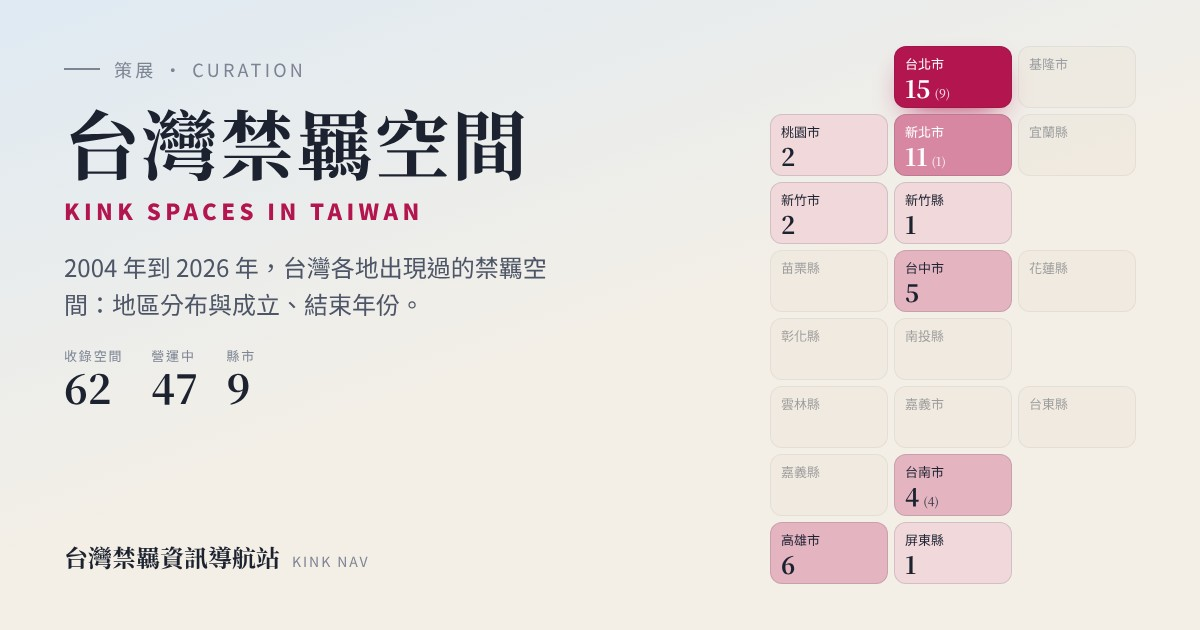
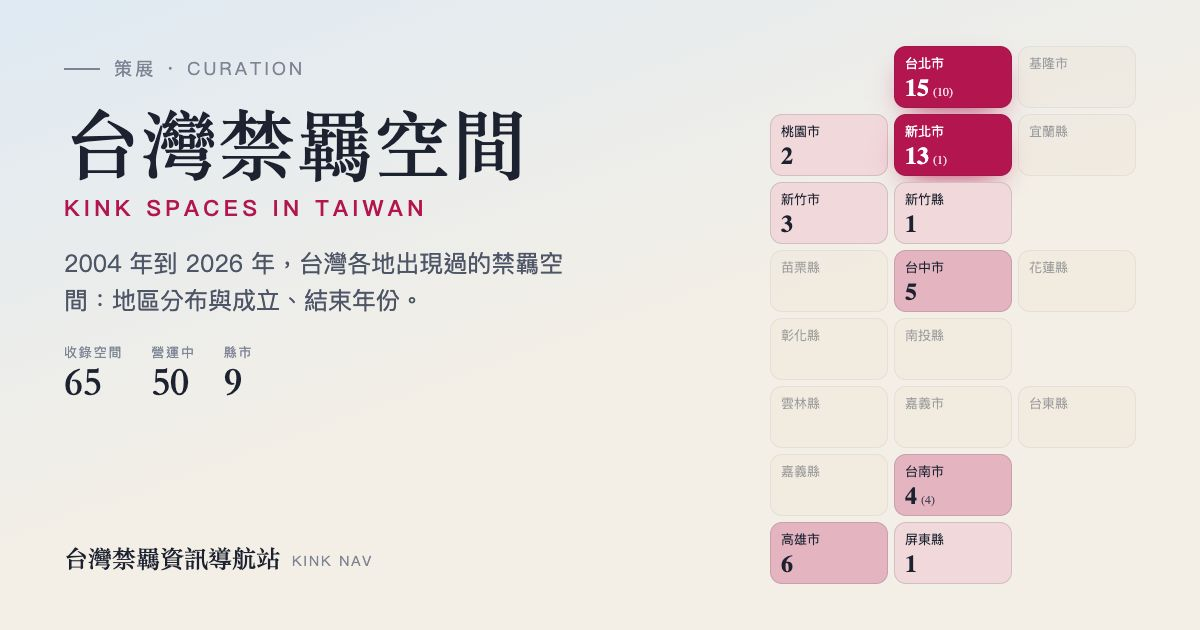
Kink space: sync with the sheet, 65 spaces
Three new 2026 spaces (禁忌糖果屋, 祕密羈地, 繩獸閣), names follow the
sheet, Commander 41 gets its city, 成大禁羈社 starts in 2019, seven
reference links added and the broken one on 台大BDSM社 fixed. Home card
count and the pinned test go to 65; social image regenerated.

diff --git a/app/data/spaces.ts b/app/data/spaces.ts
@@ -37,35 +37,35 @@ export const kindNames: Record<SpaceKind, Localized> = {
 
 // Source: 台灣禁羈空間列表＆時間軸 by 虎斑 (Google Sheet, 禁羈空間列表及起始結束時間). Order follows the sheet.
 export const spaces: readonly KinkSpace[] = [
-  { name: '皮繩脫殼日', kind: 'munch', start: 2004, end: 2011, host: '皮繩愉虐邦', venue: '不固定', city: '台北市', district: '大安區' },
-  { name: '皮繩脫殼日', kind: 'munch', start: 2011, end: 2012, host: '皮繩愉虐邦', venue: '直走咖啡', city: '台北市', district: '中正區' },
+  { name: '皮繩愉虐邦Munch', kind: 'munch', start: 2004, end: 2011, host: '皮繩愉虐邦', venue: '不固定', city: '台北市', district: '大安區', url: 'https://www.bdsmtw.com/2004/06/munch-0406-ning/' },
+  { name: '脫殼日', kind: 'munch', start: 2011, end: 2012, host: '皮繩愉虐邦', venue: '直走咖啡', city: '台北市', district: '中正區' },
   { name: '皮繩脫殼日', kind: 'munch', start: 2012, end: 2015, host: '皮繩愉虐邦', venue: 'Commander D', city: '台北市', district: '萬華區' },
   { name: '香草脫殼日', kind: 'munch', start: 2016, end: 2021, host: '皮繩愉虐邦', venue: '半路咖啡', city: '台北市', district: '大安區' },
-  { name: 'Commander 41', kind: 'space', start: 2011, end: 2025, venue: 'Commander 41' },
+  { name: 'Commander 41', kind: 'space', start: 2011, end: 2025, venue: 'Commander 41', city: '台北市', district: '萬華區' },
   { name: 'Commander D', kind: 'party', start: 2012, end: 2026, host: 'Commander D', venue: 'Commander D', city: '台北市', district: '萬華區' },
   { name: '真繩會', kind: 'rope', start: 2013, end: 2020, host: 'Maya Mai', venue: '民權西路站附近', city: '台北市', district: '中山區' },
   { name: 'MySpace', kind: 'rope', start: 2017, end: 2023, host: 'Maya Mai', venue: 'MySpace', city: '台北市', district: '中山區', url: 'https://www.facebook.com/photo/?fbid=1693201827647798&set=a.474026168092840' },
   { name: 'BDSM同樂會', kind: 'space', start: 2017, end: 2026, venue: '南京復興站附近', city: '台北市', district: '中山區' },
   { name: '虐狐', kind: 'munch', start: 2013, end: 2026, venue: '雜貓窩', city: '台中市', district: '北區' },
-  { name: '縛宵', kind: 'party', start: 2017, end: 2026, host: '縛生', venue: 'ChoraStudio', city: '台北市', district: '松山區' },
-  { name: '中和未命名', kind: 'party', start: 2017, end: 2026, venue: '未命名.bnb', city: '新北市', district: '中和區' },
-  { name: '景美未命名', kind: 'space', start: 2018, end: 2026, venue: '未命名(2).dio', city: '台北市', district: '文山區', url: 'https://www.facebook.com/unnamed1.dio/posts/pfbid08LWPNEHfNMByf3CDcQVYTAUj4uhQnUtog5pt3VxQycg4TLms1gsX1p9rCrQVPby6l' },
-  { name: '府中未命名', kind: 'space', start: 2022, end: 2026, venue: '未命名（3）.oh', city: '新北市', district: '板橋區' },
+  { name: '縛宵 ShibariVespers', kind: 'party', start: 2017, end: 2026, host: '縛.生', venue: 'ChoraStudio', city: '台北市', district: '松山區' },
+  { name: '未命名.bnb', kind: 'party', start: 2017, end: 2026, venue: '未命名.bnb', city: '新北市', district: '中和區' },
+  { name: '未命名(2).dio', kind: 'space', start: 2018, end: 2026, venue: '未命名(2).dio', city: '台北市', district: '文山區', url: 'https://www.facebook.com/unnamed1.dio/posts/pfbid08LWPNEHfNMByf3CDcQVYTAUj4uhQnUtog5pt3VxQycg4TLms1gsX1p9rCrQVPby6l' },
+  { name: '未命名（3）.oh', kind: 'space', start: 2022, end: 2026, venue: '未命名（3）.oh', city: '新北市', district: '板橋區' },
   { name: '大立未命名', kind: 'space', start: 2021, end: 2026, city: '高雄市', district: '前金區' },
   { name: 'Tribo安全屋', kind: 'space', start: 2024, end: 2025, city: '台南市', district: '北區' },
   { name: '府城未命名', kind: 'space', start: 2025, end: 2026, city: '台南市', district: '北區' },
   { name: '沿山未命名', kind: 'space', start: 2024, end: 2026, city: '屏東縣', district: '新埤鄉' },
-  { name: '台大BDSM社', kind: 'club', start: 2014, end: 2026, host: '台大BDSM社', city: '台北市', district: '大安區', url: 'V' },
-  { name: '師大性善社', kind: 'club', start: 2017, end: 2026, host: '師大性善社', city: '台北市', district: '大安區', url: 'https://www.facebook.com/photo?fbid=652636338256893&set=a.459029776238722' },
-  { name: '成大禁羈社', kind: 'club', start: 2018, end: 2026, host: '成大禁羈社', city: '台南市', district: '東區' },
+  { name: '台大BDSM社', kind: 'club', start: 2014, end: 2026, host: '台大BDSM社', city: '台北市', district: '大安區', url: 'https://www.ptt.cc/bbs/NTU/M.1410779495.A.329.html' },
+  { name: '台師大多元性慾友善社', kind: 'club', start: 2017, end: 2026, host: '師大性善社', city: '台北市', district: '大安區', url: 'https://www.facebook.com/photo?fbid=652636338256893&set=a.459029776238722' },
+  { name: '成大禁羈社', kind: 'club', start: 2019, end: 2026, host: '成大禁羈社', city: '台南市', district: '東區', url: 'https://x.com/nckukink/status/1186562774517735424' },
   { name: '清大愛慾實務社', kind: 'club', start: 2020, end: 2026, host: '清大愛慾實務社', city: '新竹市', district: '東區', url: 'https://nthuaiyu.medium.com/1091-%E5%AD%B8%E6%9C%9F%E5%9B%9E%E9%A1%A7-%E6%96%B0%E7%AB%B9%E5%94%AF%E4%B8%80%E4%B8%BB%E6%89%93%E6%83%85%E6%85%BE%E8%88%87%E6%80%A7%E7%9A%84%E7%A4%BE%E5%9C%98-%E5%9C%A8%E9%80%99%E5%80%8B%E5%AD%B8%E6%9C%9F%E5%81%9A%E4%BA%86%E4%BB%80%E9%BA%BC-2ae44ee0f4c' },
-  { name: '東吳大學性愉悅研究社', kind: 'space', start: 2025, end: 2026, city: '台北市', district: '中正區' },
+  { name: '東吳大學多元性愉悅研究社', kind: 'space', start: 2025, end: 2026, city: '台北市', district: '中正區', url: 'https://x.com/scubdsmclub/status/1904717761324204209' },
   { name: '貓樓上繩語沙龍', kind: 'space', start: 2018, end: 2026, city: '台北市', district: '大同區', url: 'https://www.catsdownstairs.com/about' },
-  { name: '康樂玩', kind: 'space', start: 2019, end: 2026, city: '新北市', district: '板橋區' },
+  { name: 'BDSM康樂玩', kind: 'space', start: 2019, end: 2026, city: '新北市', district: '板橋區' },
   { name: '束室', kind: 'space', start: 2018, end: 2026, city: '新北市', district: '板橋區' },
   { name: '參拾捌號', kind: 'space', start: 2018, end: 2021, city: '新北市', district: '淡水區', url: 'https://www.facebook.com/permalink.php?story_fbid=pfbid02P8F2Sm5RMREtgnNfLDG7eJg5dhc5nmnRhmsNdfLLE8jQ994H8bEmDyi4ReQf4Fyvl&id=100064907551471' },
   { name: '沐慾', kind: 'space', start: 2024, end: 2025, city: '台北市', district: '中山區' },
-  { name: '光角', kind: 'space', start: 2022, end: 2026, city: '台北市', district: '中山區' },
+  { name: '光角LIMER', kind: 'space', start: 2022, end: 2026, city: '台北市', district: '中山區' },
   { name: 'SB玩具間', kind: 'space', start: 2020, end: 2026, city: '台中市', district: '西屯區' },
   { name: '月耍廢', kind: 'space', start: 2021, end: 2026, city: '新北市', district: '新莊區', url: 'https://www.facebook.com/photo/?fbid=409752387484986&set=a.163508079681018&__tn__=%2CO*F' },
   { name: '動物方程式', kind: 'space', start: 2023, end: 2026, city: '台中市', district: '西區' },
@@ -78,27 +78,30 @@ export const spaces: readonly KinkSpace[] = [
   { name: '底家', kind: 'space', start: 2022, end: 2026, city: '台南市', district: '東區' },
   { name: '童心園', kind: 'space', start: 2024, end: 2026, city: '高雄市', district: '左營區' },
   { name: '羈人方舟', kind: 'space', start: 2021, end: 2026, city: '新北市', district: '新莊區' },
-  { name: '弗蕊雅莊園', kind: 'space', start: 2022, end: 2026, city: '新竹縣', district: '關西鄉' },
+  { name: '弗蕊雅莊園', kind: 'space', start: 2022, end: 2026, city: '新竹縣', district: '關西鄉', url: 'https://x.com/freyjasmanor/status/1309763972518653952' },
   { name: '魔女的蜜室', kind: 'space', start: 2021, end: 2026, city: '台北市', district: '中山區' },
   { name: '遠足', kind: 'space', start: 2018, end: 2026, city: '高雄市', district: '新興區' },
   { name: '一紫苑', kind: 'space', start: 2024, end: 2026, city: '台北市', district: '中山區' },
   { name: '如繩坊', kind: 'space', start: 2025, end: 2026, city: '高雄市', district: '新興區' },
-  { name: '喇勞', kind: 'space', start: 2025, end: 2026, city: '新北市', district: '蘆洲區' },
+  { name: '喇勞 La Loud', kind: 'space', start: 2025, end: 2026, city: '新北市', district: '蘆洲區' },
   { name: '拘久屋', kind: 'space', start: 2025, end: 2026, city: '台中市', district: '大里區' },
   { name: "H'S BDSM學堂", kind: 'space', start: 2022, end: 2026, city: '新北市', district: '板橋區' },
   { name: '隨心部屋', kind: 'space', start: 2021, end: 2026, city: '高雄市', district: '左營區', url: 'https://www.instagram.com/p/CRwb7S4JX24/?img_index=1' },
   { name: '晝縛夜畜', kind: 'space', start: 2024, end: 2026, city: '台南市', district: '永康區' },
   { name: '禁羈會社', kind: 'space', start: 2025, end: 2026, city: '新北市', district: '板橋區' },
-  { name: '史萊姆巢穴', kind: 'space', start: 2025, end: 2026, city: '台北市', district: '大安區' },
+  { name: '史萊姆巢穴 StickySlime', kind: 'space', start: 2025, end: 2026, city: '台北市', district: '大安區' },
   { name: '赤巢', kind: 'space', start: 2026, end: 2026, city: '新北市', district: '三重區' },
   { name: '玩壞bar', kind: 'space', start: 2025, end: 2026, city: '桃園市', district: '桃園區' },
   { name: '打結拍', kind: 'space', start: 2026, end: 2026, city: '新竹市', district: '東區' },
-  { name: '微慾', kind: 'space', start: 2026, end: 2026, city: '新北市', district: '板橋區' },
+  { name: '微慾MIYOKU', kind: 'space', start: 2026, end: 2026, city: '新北市', district: '板橋區' },
   { name: '努比之家', kind: 'space', start: 2025, end: 2026, city: '桃園市', district: '中壢區' },
   { name: '更衣間', kind: 'space', start: 2024, end: 2026, city: '台中市', district: '北區' },
   { name: '亞界色台北', kind: 'space', start: 2024, end: 2025, city: '台北市', district: '中山區' },
   { name: '亞界色台南', kind: 'space', start: 2024, end: 2025, city: '台南市', district: '安平區' },
-  { name: '情趣紅酒坊', kind: 'space', start: 2023, end: 2026, city: '高雄市', district: '三民區' },
+  { name: '情趣紅酒坊', kind: 'space', start: 2023, end: 2026, city: '高雄市', district: '三民區', url: 'https://x.com/winepleasure_kh/status/1739246850736341313' },
+  { name: '禁忌糖果屋', kind: 'space', start: 2026, end: 2026, city: '新竹市', district: '東區', url: 'https://x.com/SweetLocked_hsc/status/2066935997825466748' },
+  { name: '祕密羈地', kind: 'space', start: 2026, end: 2026, city: '新北市', district: '中和區', url: 'https://x.com/secretkinkbase/status/2097017430375862566' },
+  { name: '繩獸閣', kind: 'space', start: 2026, end: 2026, city: '新北市', district: '三重區', url: 'https://x.com/RopebeastHouse/status/2113579057036279812' },
 ]
 
 export interface CityInfo {

diff --git a/app/i18n/index.ts b/app/i18n/index.ts
@@ -57,7 +57,7 @@ export const zh = {
     title: '台灣禁羈空間',
     sub: '地區分布與成立、結束年份',
     lede: '從 2004 年第一場 Munch 到今天，台灣各地出現過哪些禁羈空間、現在還有哪些在營運。',
-    homeCard: { tag: '策展', title: '台灣禁羈空間', text: '62 個空間的分布與時間軸' },
+    homeCard: { tag: '策展', title: '台灣禁羈空間', text: '65 個空間的分布與時間軸' },
     stats: { total: '收錄空間', active: '營運中', closed: '已結束', cities: '縣市' },
     mapHeading: '地區分布',
     mapSub: '方塊依地理位置粗略排列，數字為營運中的空間數，括號內為已結束。',
@@ -164,7 +164,7 @@ export const en: Dict = {
     title: 'Kink Spaces in Taiwan',
     sub: 'Where they are, when they opened and closed',
     lede: "From the first munch in 2004 to today: the kink spaces that have existed across Taiwan, and which ones are still running.",
-    homeCard: { tag: 'Curation', title: 'Kink Spaces', text: 'Map and timeline of 62 spaces' },
+    homeCard: { tag: 'Curation', title: 'Kink Spaces', text: 'Map and timeline of 65 spaces' },
     stats: { total: 'Spaces listed', active: 'Running', closed: 'Closed', cities: 'Cities' },
     mapHeading: 'By region',
     mapSub: 'Tiles are placed roughly by geography. The number is spaces still running; closed ones are in brackets.',

diff --git a/app/actions/controller.test.ts b/app/actions/controller.test.ts
@@ -108,7 +108,7 @@ describe('Kink space page', () => {
   })
 
   it('has consistent space data', () => {
-    assert.equal(spaces.length, 62)
+    assert.equal(spaces.length, 65)
     for (const space of spaces) {
       assert.ok(space.start >= 2004 && space.start <= space.end, space.name)
       if (space.city) assert.ok(cities.some((c) => c.key === space.city), `${space.name}: ${space.city}`)
